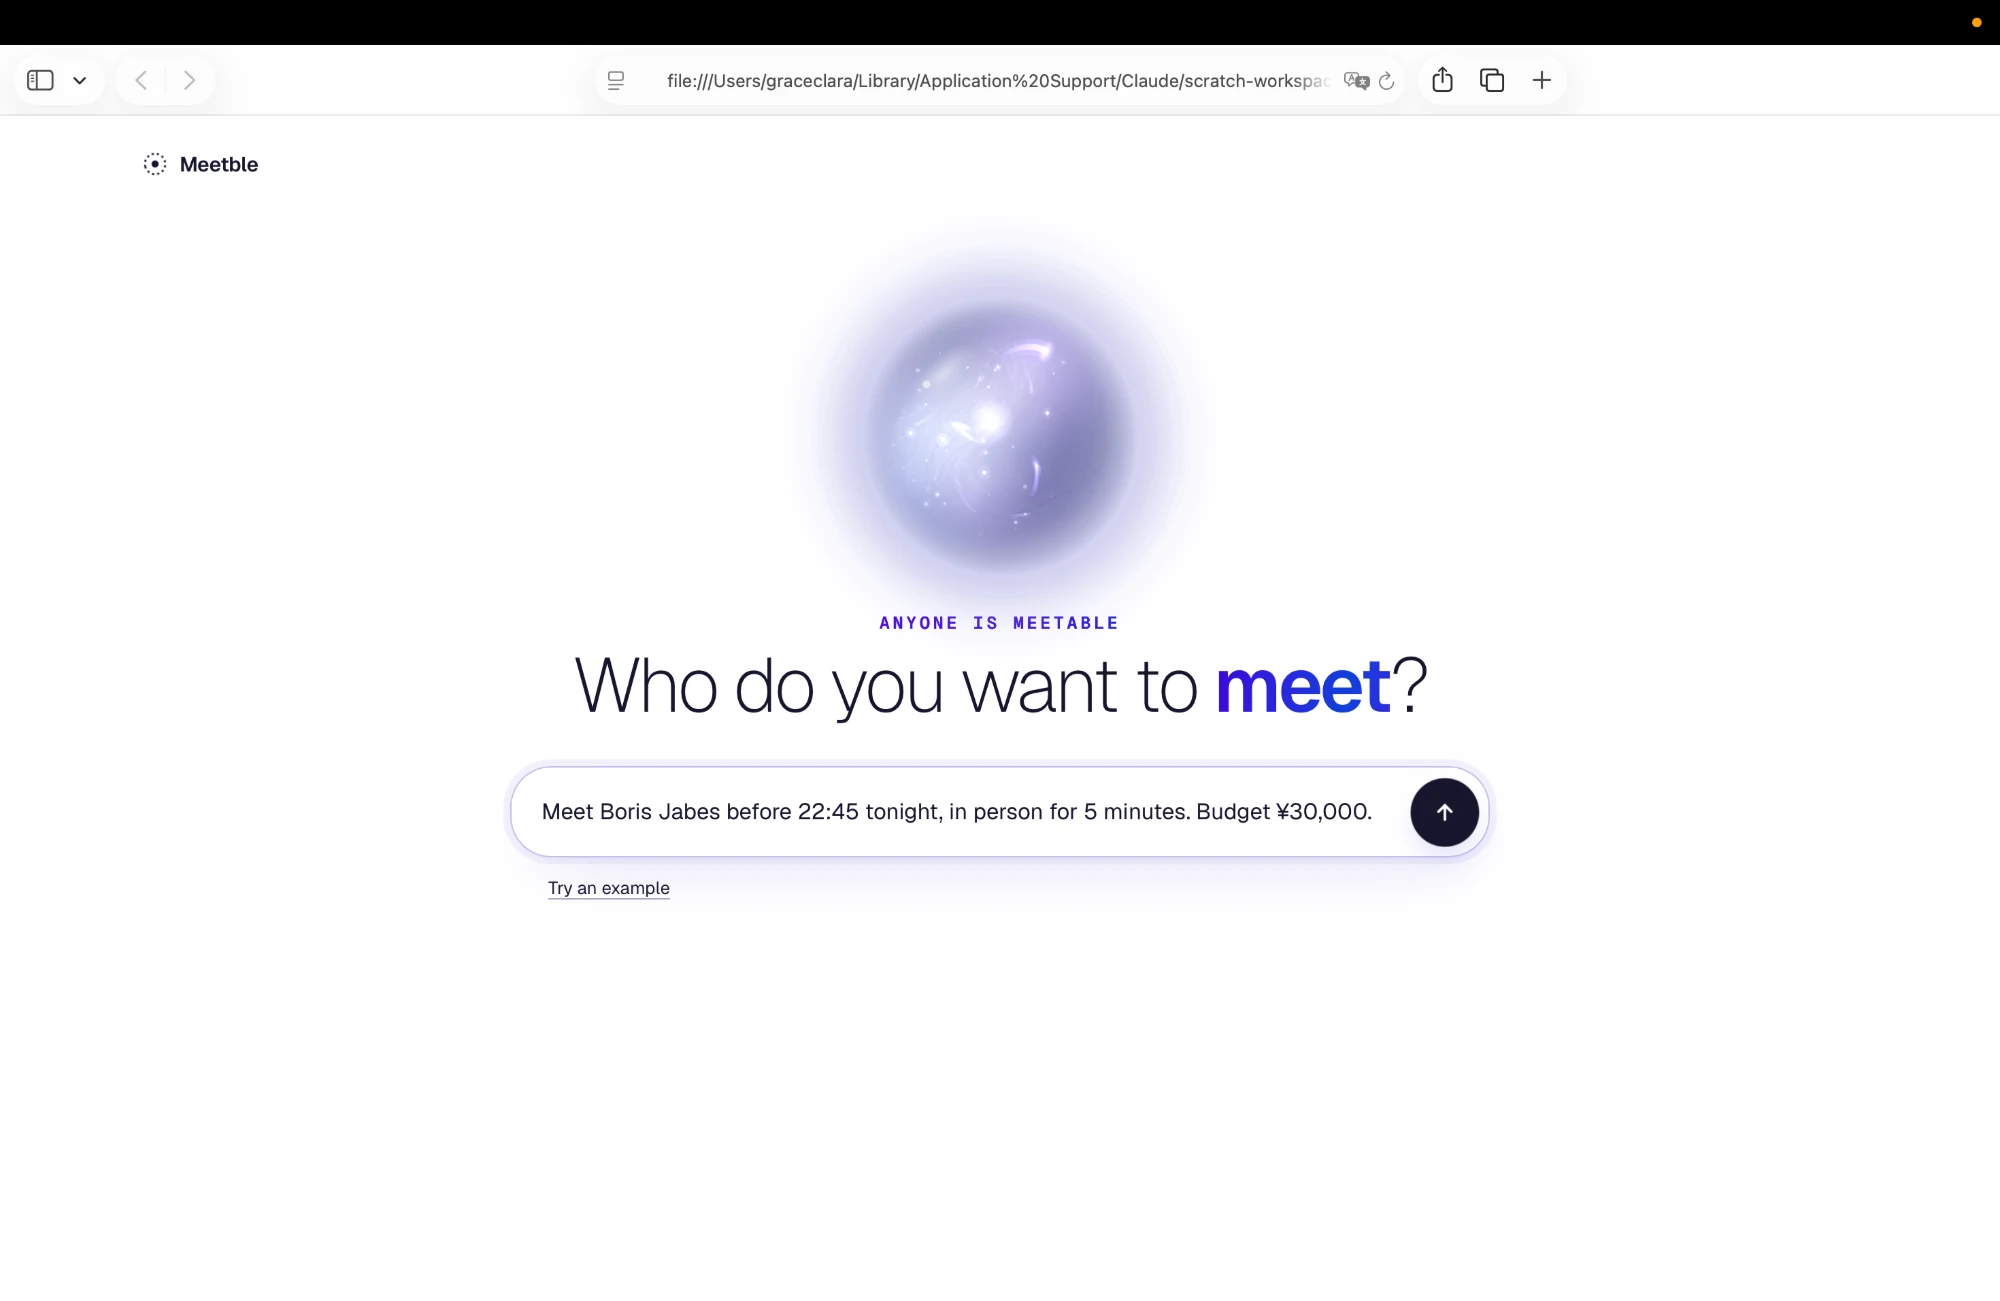
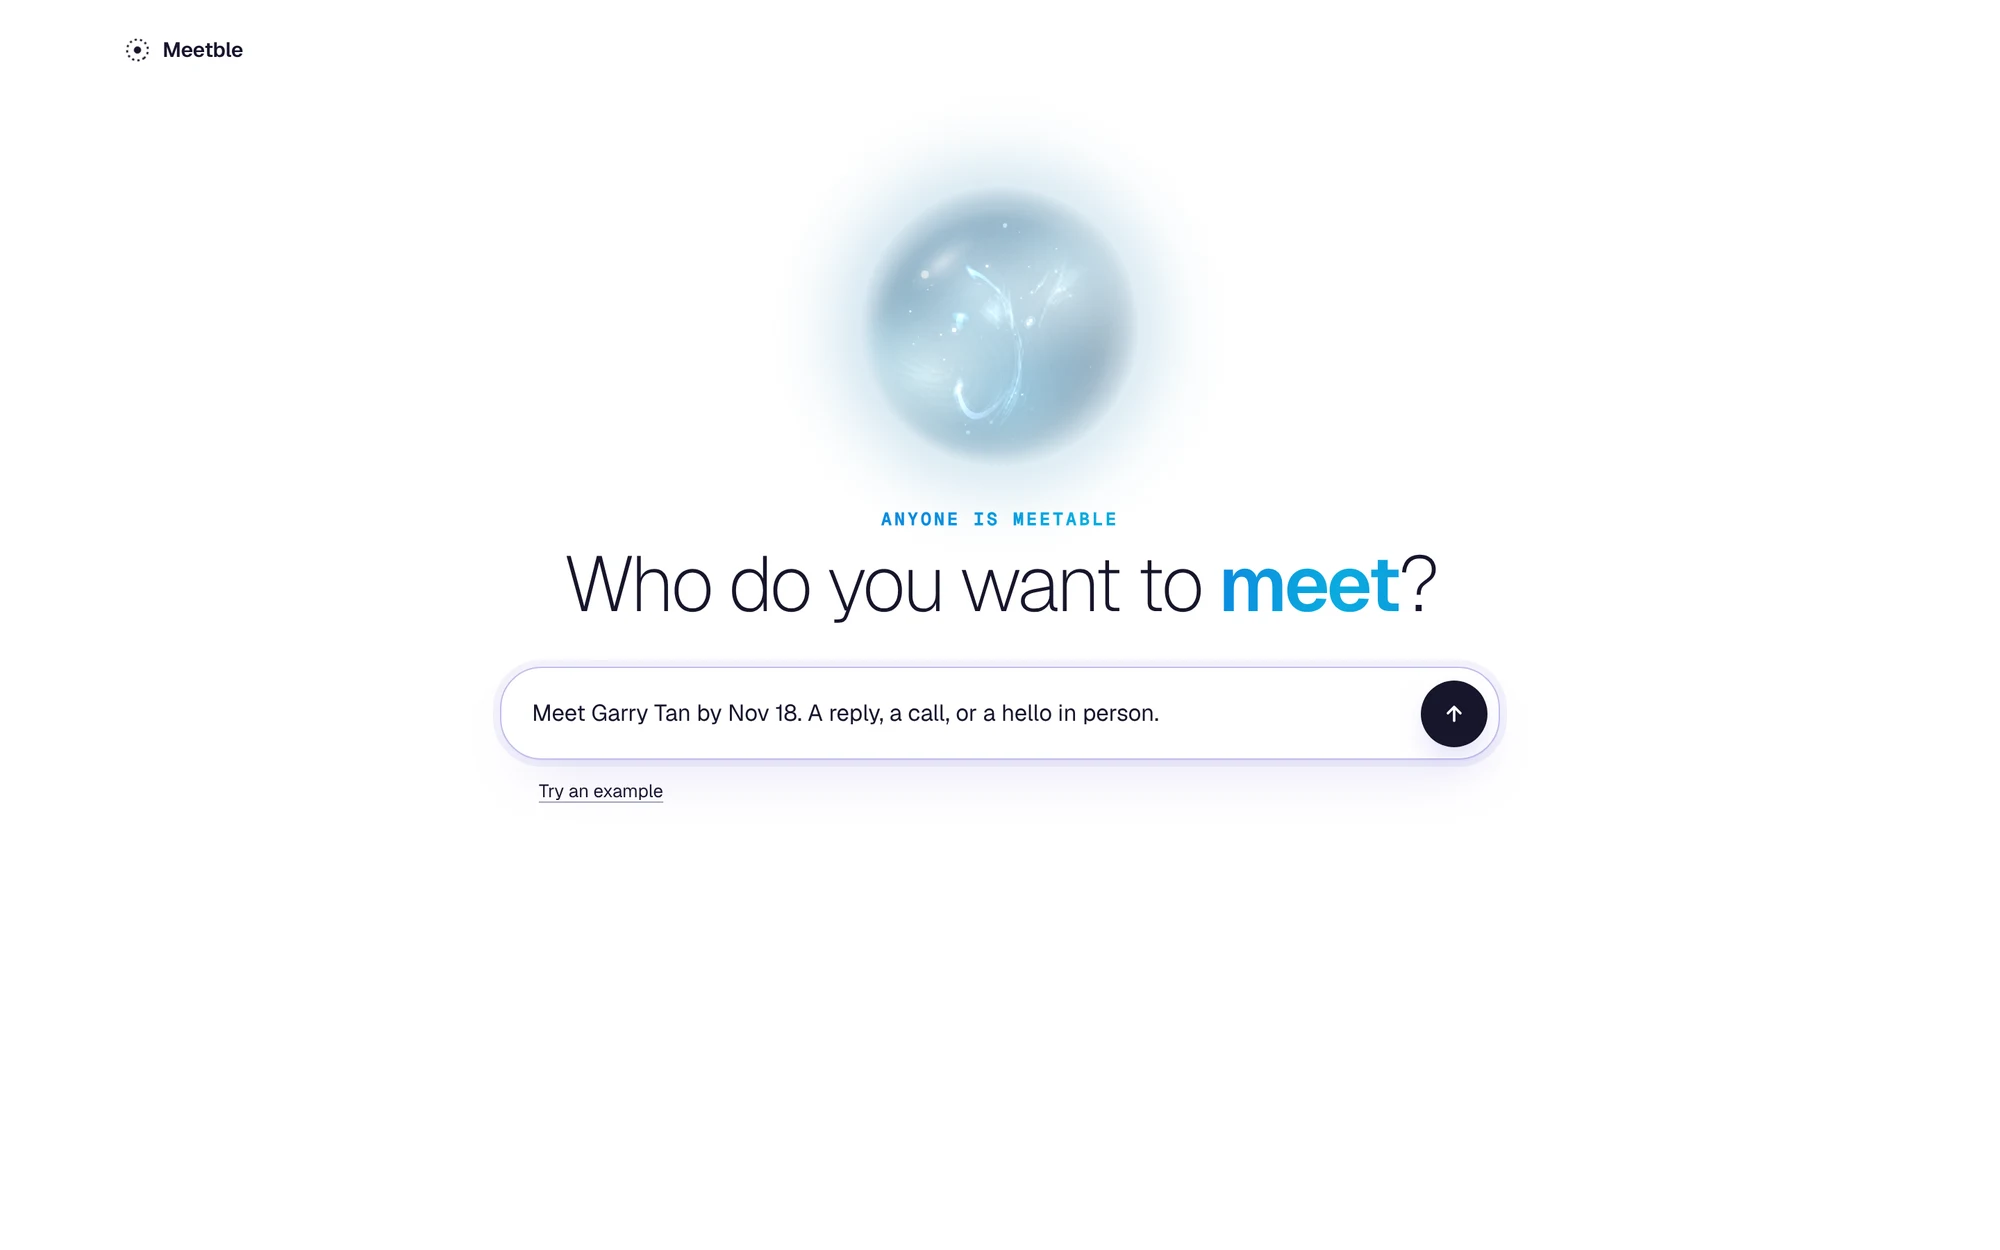
README: replace screenshots with captures from a real run
Taken from server.mjs replaying the last real Garry Tan research and plan,
with no browser chrome or local paths. Personal profile details are redacted.

Claude-Session: https://claude.ai/code/session_01WPGe2QuTpySQ4fMU23SoRf

Changed region(s): [[0.248, 0.1248, 0.744, 0.6864], [0.0, 0.0, 1.0, 0.0936], [0.093, 0.1248, 0.124, 0.156]]

diff --git a/README.md b/README.md
@@ -10,6 +10,8 @@ We build AI agents that find the best way to reach out to people you want and do
 
 ## Screenshots
 
+From a real run on the local server (`node server.mjs`), target Garry Tan, with "Reuse the last research run" on.
+
 **1. Ask who you want to meet**\
 ![Start screen](docs/screenshots/1-ask.webp)
 
@@ -19,10 +21,10 @@ We build AI agents that find the best way to reach out to people you want and do
 **3. Watch the agent research**\
 ![Research in progress](docs/screenshots/3-research.webp)
 
-**4. Research board: profile and niche details**\
+**4. Research board: profile, summary, and niche details in his own words**\
 ![Research board](docs/screenshots/4-research-board.webp)
 
-**5. Action plan: ranked routes with their chances**\
+**5. Action plan: ranked routes, each with its % chance**\
 ![Action plan](docs/screenshots/5-action-plan.webp)
 
 ## How it works
